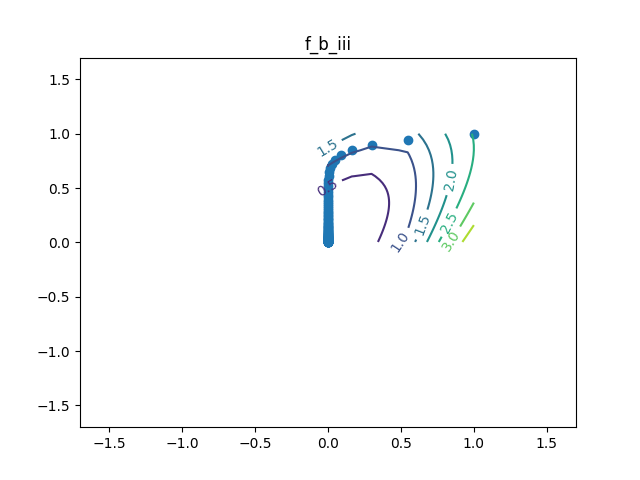
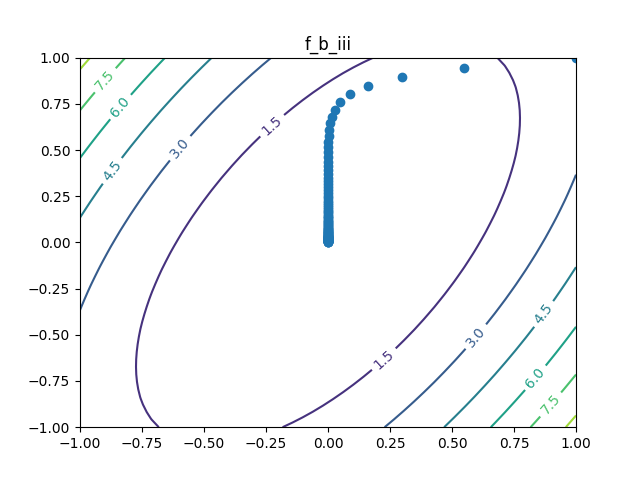
Fixed a small graphic bug in the contours + committing the new contour plots

diff --git a/ex1/programming_part/code/src/utils.py b/ex1/programming_part/code/src/utils.py
@@ -7,15 +7,19 @@ EPSILON = 0.005
 PARENT_DIR = os.path.dirname(os.getcwd())
 
 def plot_contours_and_paths(f, x):
-    c0 = [coordinate[0] for coordinate in x]
-    c1 = [coordinate[1] for coordinate in x]
+    c0 = np.array([coordinate[0] for coordinate in x])
+    max_abs_val0 = max(abs(min(c0)), max(c0))
+    linspace0 = np.linspace(-max_abs_val0, max_abs_val0)
+    c1 = np.array([coordinate[1] for coordinate in x])
+    max_abs_val1 = max(abs(min(c1)), max(c1))
+    linspace1 = np.linspace(-max_abs_val1, max_abs_val1)
 
 
     # Following code based on https://matplotlib.org/stable/gallery/images_contours_and_fields/contour_demo.html
-    X1, X2 = np.meshgrid(c0, c1)
+    X1, X2 = np.meshgrid(linspace0, linspace1)
     fig, ax = plt.subplots()
-    plt.xlim(min(-1.7,min(c0)-EPSILON),max(1.7,max(c0)+EPSILON))
-    plt.ylim(min(-1.7,min(c1)-EPSILON),max(1.7,max(c1)+EPSILON))
+    plt.xlim(-max_abs_val0, max_abs_val0)
+    plt.ylim(-max_abs_val1, max_abs_val1)
     Z = np.empty(shape=(X1.shape[0],X1.shape[1]))
     for i in range(X1.shape[0]):
         for j in range(X1.shape[1]):
